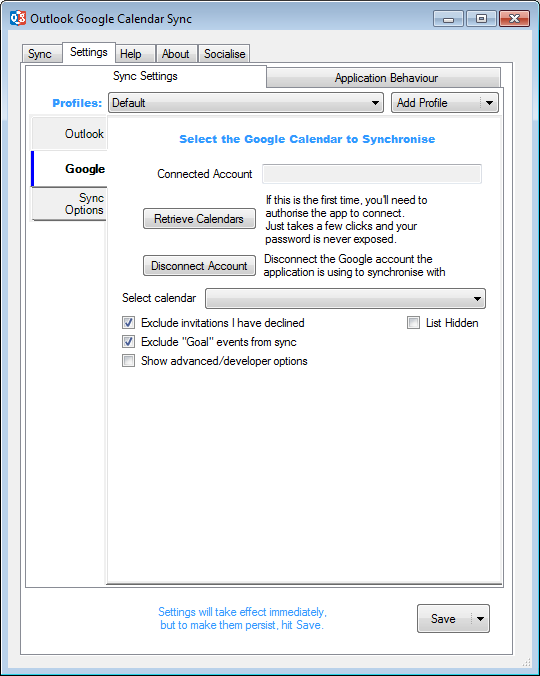
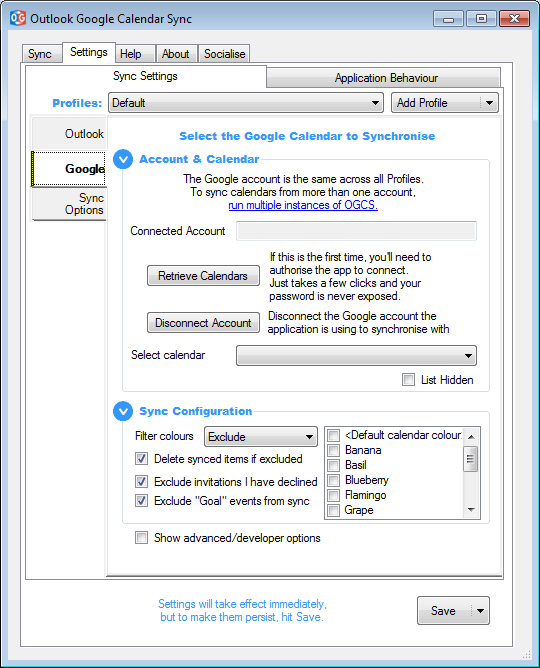
Update user guide with colour filtering and subject exclusions. Screenshots updated.

diff --git a/guide/google.md b/guide/google.md
@@ -14,6 +14,8 @@ This is where you configure the Google calendar you wish to sync.
 
 ![Google Settings Screenshot](google.png)
 
+## Account & Calendar
+
 **Connected Account:** Once OGCS has been authorised to connect to a Google calendar, the associated account will appear here. Donations are associated with this account, where ever OGCS is installed or used.
 
 **Retrieve calendars:** Until clicked, a calendar cannot be selected. If this is the first use of OGCS, it will step through the process of authorising the application to then access the calendars.  
@@ -27,6 +29,15 @@ This is where you configure the Google calendar you wish to sync.
 To revoke authorisation from OGCS continuing to access a Google account, navigate to [https://myaccount.google.com/permissions](https://myaccount.google.com/permissions), click on `Outlook Google Calendar Sync` and then `Remove Access`.
 
 **Select calendar:** Once successfully authenticated, chose the calendar to sync with.  
+
+## Sync Configuration
+
+### Filtering
+
+**Filter colours:** Restrict the items to be synced by either excluding or including various colours that have been assigned to calendar events. Your selection will automatically invert which switching between include or exclude. The default is to not exclude anything.  
+**Delete synced items if excluded:** By default this is checked and excluded Google calendar items _will_ be deleted from the Outlook calendar if they have previously been synced.  
+In some more complex configuratons, it may be desirable to stop this behaviour. For example, two-way syncing an Outlook calendar to Google for family to have visiblity, but needing to mark Google as _Free_ so the calendar is not blocked out and not having that sync back to Outlook. This can be achieved by manually setting the availability, assigning an excluded colour and _not_ deleting items with excluded colours.  
+
 **Exclude invitations I have declined:** Do not sync Google events that have been declined.  
 **Exclude "Goal" events from sync:** Do not sync Google _Goals_ (a now [deprecated Google feature](https://support.google.com/calendar/answer/12207659), replaced by _focus time_ for those with work or school accounts)
 

diff --git a/guide/outlook.md b/guide/outlook.md
@@ -23,8 +23,8 @@ This is where you configure the Outlook calendar you wish to sync.
 ### Filtering
 **Filter categories:** Restrict the items to be synced by either excluding or including various categories that have been assigned to calendar appointments. Your selection will automatically invert which switching between include or exclude. The default is to not exclude anything.
 
-**Delete synced items if excluded:** This is only relevant for two-way sync - by default, excluded Outlook calendar items _will_ be deleted from the Google calendar.  
-In some more complex configuratons, it may be desirable to stop this behaviour. For example, syncing a Google calendar to Outlook for colleagues to have visiblity, but needing to mark Outlook as _Free_ so the calendar is not blocked out; this can be achieved by manually setting the availability and assigning an excluded category.  
+**Delete synced items if excluded:** By default this is checked and excluded Outlook calendar items _will_ be deleted from the Google calendar if they have previously been synced.  
+In some more complex configuratons, it may be desirable to stop this behaviour. For example, two-way syncing a Google calendar to Outlook for colleagues to have visiblity, but needing to mark Outlook as _Free_ so the calendar is not blocked out and not having that sync back to Google. This can be achieved by  setting the availability, assigning an excluded category and _not_ deleting items with excluded categories.  
 **Only sync invites I've responded to:** Exclude invitations without a response.
 
 ### Date Format

diff --git a/guide/syncoptions.md b/guide/syncoptions.md
@@ -105,11 +105,12 @@ These settings operating differently according to your sync direction. When cale
 * One-way: both newly created items will be not be synced _and_ previously synced will be removed.
 * Two-way: only newly created items will be not be synced to the target calendar.   
 
-If greater control is needed around what should sync, [include or excluding Outlook categories](outlook#filtering) that are manually assigned to individual items may suit better.
+If greater control is needed around what should sync, include or excluding [Outlook categories](outlook#filtering) / [Google colours](google#filtering) that are manually assigned to individual items may suit better.
 
 **Availability:** Exclude calendar items marked as _Free_ or _Tentative_. Note that Tentative is only available when syncing from Outlook.  
 **Privacy:** Exclude calendar items marked as _Private_.  
-**All-Day:** Exclude all-day calendar items, or those spanning several days from midnight to midnight. Optionally, only exclude all-day items that are marked _Free_.
+**All-Day:** Exclude all-day calendar items, or those spanning several days from midnight to midnight. Optionally, only exclude all-day items that are marked _Free_.  
+**Subject that contains:** Exclude any items with subjects/titles that match this search string. Supports [regular expressions](https://www.regular-expressions.info).  
 
 <p>&nbsp;</p>
 {% include navigation-buttons.html %}

diff --git a/guide/index.md b/guide/index.md
@@ -19,7 +19,8 @@ Ganee, from the user community, has also kindly provided a how-to YouTube video:
 Each of the screens is explained in detail.  
 <img src="{{ site.github-repo }}/raw/master/docs/images/home_screen1.png" style="position: absolute; clip: rect(0px, 300px, 75px, 0px)"/>
 
-<br/><br/>
+<p>&nbsp;</p>
+<p>&nbsp;</p>
 
 * [Sync](sync)
 * [Settings](settings)
